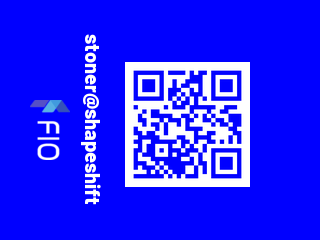
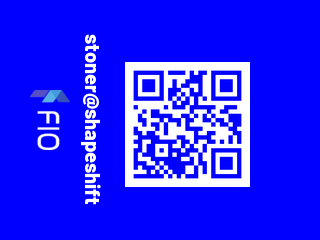
Sizing changes

Changed region(s): [[0.0938, 0.35, 0.2188, 0.6708]]

diff --git a/eth-badge.py b/eth-badge.py
@@ -137,7 +137,7 @@ with Color('Blue') as bg:
             draw.text(int(img2.width/2), 235, attendee["fioaddress"])
             # Add in FIO image
             fio_logo.resize(60,40)
-            img2.composite(fio_logo, (int(img2.width/2)-20), 250) # Hacky
+            img2.composite(fio_logo, (int(img2.width/2)-30), 250) # Hacky
             draw(img2)
             # Rotate image back for display purposes - horiz vs vert
             img2.rotate(90)
@@ -167,20 +167,19 @@ def buttonEvent(channel):
        
 # Display attendee badge
 # TODO: Animations, grpahics, filters, gifs?
-def displayBadge(channel):
+def displayBadge(channel):    
     global badgeDisplayBit
-    
     if badgeDisplayBit == 0:
         print("Displaying ETHDenver badge")
         #TODO: Security vuln running as root
         subprocess.call(['sudo fbi -T 2 -d /dev/fb1 -noverbose -a /home/pi/ETHDenver2021/assets/badge.png'], shell=True, stdout=subprocess.PIPE, stderr=subprocess.PIPE)
         badgeDisplayBit = 1
         return
-    else:
+    elif badgeDisplayBit == 1:
         print("Displaying FIO badge")
         subprocess.call(['sudo fbi -T 2 -d /dev/fb1 -noverbose -a /home/pi/ETHDenver2021/assets/fio.png'], shell=True, stdout=subprocess.PIPE, stderr=subprocess.PIPE)
         badgeDisplayBit = 0
-        return
+
 # Display sports castle map 
 # TODO: Get layout of sports castle
 # TODO: Mapbox it
